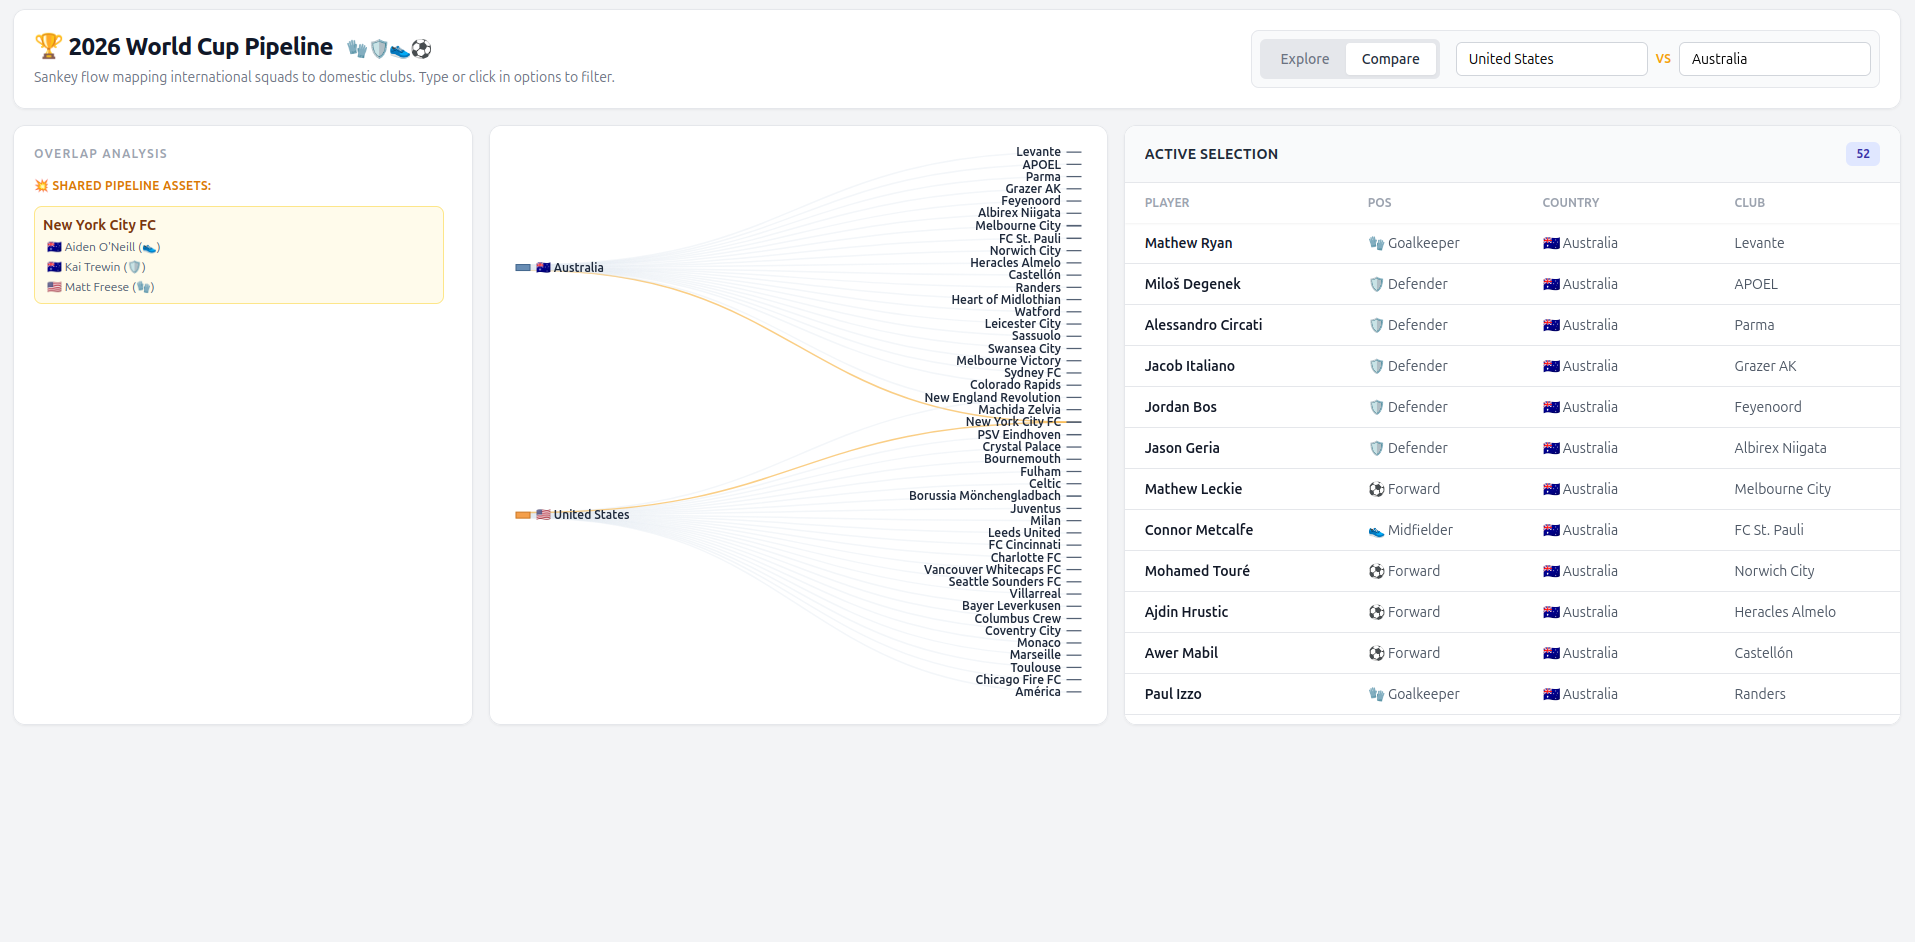
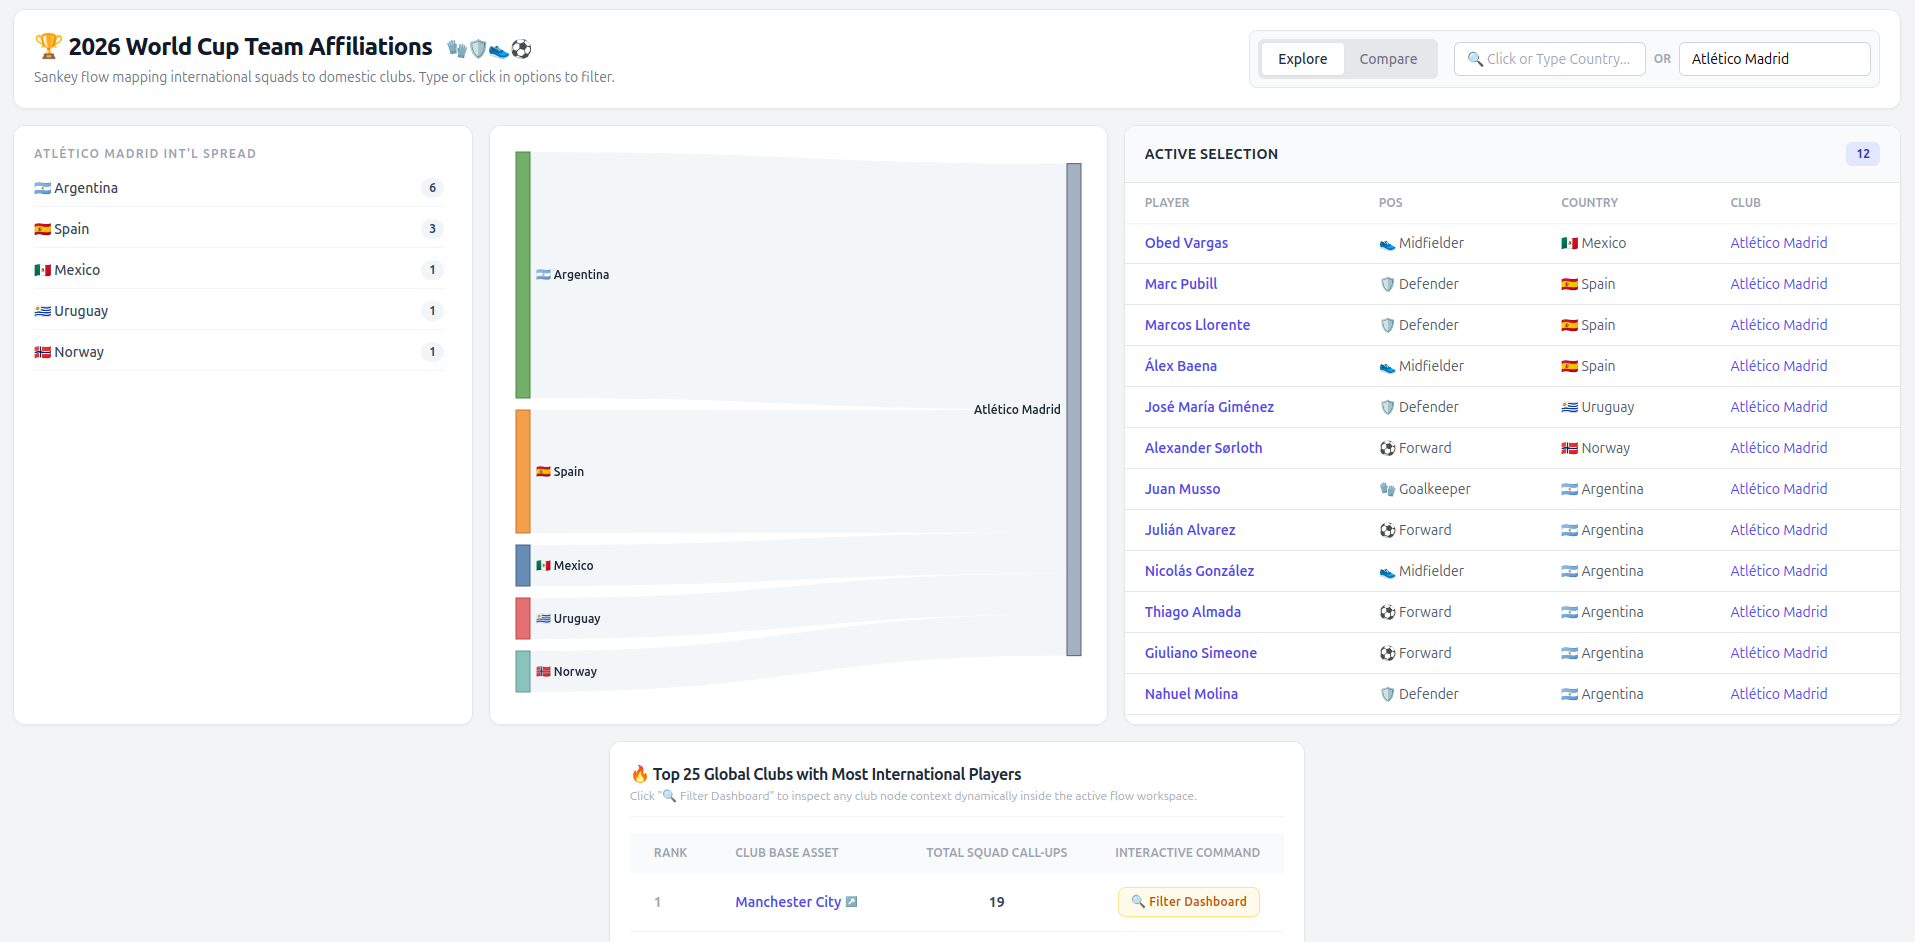
V final for now

diff --git a/world_cup_club_affiliations/index.html b/world_cup_club_affiliations/index.html
@@ -100,6 +100,27 @@
 
     </div>
 
+<div class="bg-white p-5 rounded-xl shadow-sm border border-gray-200 max-w-3xl mx-auto">
+        <div class="border-b border-gray-100 pb-3 mb-4">
+            <h3 class="text-base font-bold text-gray-800 tracking-tight">🔥 Top 25 Global Clubs with Most International Players</h3>
+            <p class="text-xs text-gray-400 mt-0.5">Click "🔍 Filter Dashboard" to inspect any club node context dynamically inside the active flow workspace.</p>
+        </div>
+        <div class="overflow-x-auto custom-scrollbar">
+            <table class="w-full text-sm text-left text-gray-500">
+                <thead class="text-xs text-gray-400 uppercase bg-gray-50">
+                    <tr>
+                        <th scope="col" class="px-6 py-3 w-16">Rank</th>
+                        <th scope="col" class="px-6 py-3">Club Base Asset</th>
+                        <th scope="col" class="px-6 py-3 text-center">Total Squad Call-ups</th>
+                        <th scope="col" class="px-6 py-3 text-right">Interactive Command</th>
+                    </tr>
+                </thead>
+                <tbody id="top-clubs-table-body" class="divide-y divide-gray-100">
+                </tbody>
+            </table>
+        </div>
+    </div>
+
     <script>
         let globalData = [];
         let currentMode = 'compare';
@@ -121,40 +142,105 @@
             "Uzbekistan": "🇺🇿", "Croatia": "🇭🇷", "England": "🏴", "Ghana": "🇬🇭", "Panama": "🇵🇦"
         };
 
-        //Data Source https://en.wikipedia.org/wiki/2026_FIFA_World_Cup_squads
+        // Core URL State Synchronization Utilities
+        function setUrlParam(key, value) {
+            const url = new URL(window.location.href);
+            if (value) {
+                url.searchParams.set(key, value);
+                if (key === 'club') url.searchParams.delete('country');
+                if (key === 'country') url.searchParams.delete('club');
+            } else {
+                url.searchParams.delete(key);
+            }
+            window.history.pushState({}, '', url);
+        }
+
+        function checkUrlParams() {
+            const urlParams = new URLSearchParams(window.location.search);
+            const mode = urlParams.get('mode');
+            const club = urlParams.get('club');
+            const country = urlParams.get('country');
+            const compareA = urlParams.get('compareA');
+            const compareB = urlParams.get('compareB');
+
+            if (mode === 'explore' || (!mode && (club || country))) {
+                setMode('explore', document.getElementById('btn-explore'), false);
+                if (club && globalClubs.has(club)) {
+                    d3.select("#input-club").property("value", club);
+                    d3.select("#input-country").property("value", "");
+                } else if (country && globalCountries.has(country)) {
+                    d3.select("#input-country").property("value", country);
+                    d3.select("#input-club").property("value", "");
+                }
+            } else if (mode === 'compare') {
+                setMode('compare', document.getElementById('btn-compare'), false);
+                if (compareA && globalCountries.has(compareA)) d3.select("#input-compare-a").property("value", compareA);
+                if (compareB && globalCountries.has(compareB)) d3.select("#input-compare-b").property("value", compareB);
+            }
+            updateVisualization();
+        }
+
+        function filterByClubLink(clubName) {
+            setMode('explore', document.getElementById('btn-explore'), false);
+            d3.select("#input-club").property("value", clubName);
+            d3.select("#input-country").property("value", "");
+            setUrlParam('club', clubName);
+            setUrlParam('mode', 'explore');
+            updateVisualization();
+            window.scrollTo({ top: 0, behavior: 'smooth' });
+        }
+
+        // Data Load & Init Lifecycle
         d3.csv("2026_world_cup_team_affiliations.csv").then(data => {
             globalData = data;
             populateDatalists();
+            renderTopClubsTable();
 
-            // Native autocomplete configuration mapping inputs to state triggers
             d3.select("#input-country").on("input", function() {
                 if(globalCountries.has(this.value) || this.value === "") {
                     d3.select("#input-club").property("value", "");
+                    setUrlParam('country', this.value);
+                    setUrlParam('mode', 'explore');
                     updateVisualization();
                 }
             });
             d3.select("#input-club").on("input", function() {
                 if(globalClubs.has(this.value) || this.value === "") {
                     d3.select("#input-country").property("value", "");
+                    setUrlParam('club', this.value);
+                    setUrlParam('mode', 'explore');
                     updateVisualization();
                 }
             });
-            d3.select("#input-compare-a").on("input", function() { if(globalCountries.has(this.value)) updateVisualization(); });
-            d3.select("#input-compare-b").on("input", function() { if(globalCountries.has(this.value)) updateVisualization(); });
+            d3.select("#input-compare-a").on("input", function() {
+                if(globalCountries.has(this.value)) { setUrlParam('compareA', this.value); updateVisualization(); }
+            });
+            d3.select("#input-compare-b").on("input", function() {
+                if(globalCountries.has(this.value)) { setUrlParam('compareB', this.value); updateVisualization(); }
+            });
 
-            setMode('compare', document.getElementById('btn-compare'));
+            const initialParams = new URLSearchParams(window.location.search);
+            if(initialParams.toString()) {
+                checkUrlParams();
+            } else {
+                setMode('compare', document.getElementById('btn-compare'), true);
+            }
         });
 
-        d3.select("#btn-explore").on("click", function() { setMode('explore', this); });
-        d3.select("#btn-compare").on("click", function() { setMode('compare', this); });
+        d3.select("#btn-explore").on("click", function() { setMode('explore', this, true); });
+        d3.select("#btn-compare").on("click", function() { setMode('compare', this, true); });
 
-        function setMode(mode, btnElement) {
+        function setMode(mode, btnElement, updateUrl = true) {
             currentMode = mode;
             d3.selectAll("#btn-explore, #btn-compare").classed("bg-white text-gray-800 shadow-sm", false).classed("text-gray-500 hover:text-gray-800", true);
             d3.select(btnElement).classed("bg-white text-gray-800 shadow-sm", true).classed("text-gray-500 hover:text-gray-800", false);
             d3.select("#explore-controls").style("display", mode === 'explore' ? 'flex' : 'none');
             d3.select("#compare-controls").style("display", mode === 'compare' ? 'flex' : 'none');
-            updateVisualization();
+
+            if(updateUrl) {
+                setUrlParam('mode', mode);
+                updateVisualization();
+            }
         }
 
         function populateDatalists() {
@@ -163,22 +249,59 @@
             globalCountries = new Set(countries);
             globalClubs = new Set(clubs);
 
-            // Populate native lists
             const cList = d3.select("#countries-list");
             countries.forEach(c => cList.append("option").attr("value", c));
 
             const cbList = d3.select("#clubs-list");
             clubs.forEach(c => cbList.append("option").attr("value", c));
 
-            // Set USA and Australia as default comparison mapping configurations
             const defaultA = countries.includes("United States") ? "United States" : countries[0];
             const defaultB = countries.includes("Australia") ? "Australia" : (countries[1] || countries[0]);
             d3.select("#input-compare-a").property("value", defaultA);
             d3.select("#input-compare-b").property("value", defaultB);
 
-            // Pick Real Madrid if present
             const plannerClub = clubs.includes("Real Madrid") ? "Real Madrid" : (clubs[0] || "");
             d3.select("#input-club").property("value", plannerClub);
+        }
+
+        function renderTopClubsTable() {
+            const rollup = d3.rollups(globalData, v => v.length, d => d.club_team)
+                            .sort((a, b) => b[1] - a[1])
+                            .slice(0, 25);
+
+            const tbody = d3.select("#top-clubs-table-body").html("");
+
+            rollup.forEach(([clubName, count], idx) => {
+                const matchedRow = globalData.find(d => d.club_team === clubName);
+                const clubUrl = matchedRow ? matchedRow.club_url : '';
+
+                const tr = tbody.append("tr").attr("class", "hover:bg-slate-50 transition-colors");
+
+                tr.append("td").attr("class", "px-6 py-3.5 font-bold text-gray-400 text-sm").text(idx + 1);
+
+                const nameTd = tr.append("td").attr("class", "px-6 py-3.5 text-sm font-semibold text-gray-900");
+                if(clubUrl) {
+                    nameTd.append("a")
+                        .attr("href", `https://en.wikipedia.org${clubUrl}`)
+                        .attr("target", "_blank")
+                        .attr("class", "text-indigo-600 hover:underline inline-flex items-center gap-1")
+                        .html(`${clubName} <span class='text-[10px] text-gray-400 font-normal'>↗</span>`);
+                } else {
+                    nameTd.text(clubName);
+                }
+
+                tr.append("td").attr("class", "px-6 py-3.5 text-center text-sm font-bold text-gray-700").text(count);
+
+                const actionTd = tr.append("td").attr("class", "px-6 py-3.5 text-right text-sm");
+                actionTd.append("a")
+                    .attr("href", `?mode=explore&club=${encodeURIComponent(clubName)}`)
+                    .attr("class", "bg-amber-50 text-amber-700 hover:bg-amber-100 px-3 py-1.5 rounded-lg text-xs font-semibold tracking-wide transition-all inline-block shadow-sm border border-amber-200")
+                    .on("click", function(event) {
+                        event.preventDefault();
+                        filterByClubLink(clubName);
+                    })
+                    .text("🔍 Filter Dashboard");
+            });
         }
 
         function updateVisualization() {
@@ -244,8 +367,11 @@
             });
 
             const svg = d3.select("#chart").append("svg").attr("width", chartWidth).attr("height", chartHeight);
-
             const sankey = d3.sankey().nodeWidth(14).nodePadding(12).extent([[10, 10], [chartWidth - 10, chartHeight - 10]]);
+
+            if (currentMode === 'explore') {
+                sankey.nodeSort((a, b) => b.value - a.value);
+            }
 
             const graph = sankey({
                 nodes: nodes.map(d => Object.assign({}, d)),
@@ -320,7 +446,6 @@
             players.forEach(p => {
                 const row = tbody.append("tr").attr("class", "bg-white border-b hover:bg-indigo-50 transition-colors");
 
-                // Hyperlink added on Player Name
                 const pCell = row.append("td").attr("class", "px-5 py-2.5 font-semibold text-gray-900");
                 if (p.player_url) {
                     pCell.append("a")
@@ -335,7 +460,6 @@
                 row.append("td").attr("class", "px-5 py-2.5 whitespace-nowrap").text(`${posEmojis[p.position] || '🏃'} ${p.position}`);
                 row.append("td").attr("class", "px-5 py-2.5 whitespace-nowrap").text(`${countryFlags[p.international_team] || '🏳'} ${p.international_team}`);
 
-                // Hyperlink added on Club Name
                 const cCell = row.append("td").attr("class", "px-5 py-2.5 truncate max-w-[140px]");
                 if (p.club_url) {
                     cCell.append("a")
@@ -358,7 +482,6 @@
                 const prefix = keyField === 'international_team' ? (countryFlags[name] || '🏳') + ' ' : '';
                 let displayName = `${prefix}${name}`;
 
-                // Add Club Link here during Single Country Explore mode
                 if (keyField === 'club_team') {
                     const sample = data.find(d => d.club_team === name);
                     if (sample && sample.club_url) {
@@ -386,9 +509,8 @@
                     const clubUrl = samplePlayer ? samplePlayer.club_url : '';
 
                     const clubHeader = listSelection.append("li").attr("class", "mt-3 bg-amber-50 border border-amber-200 p-2 rounded-lg");
-
-                    // Hyperlink added on Club heading in Overlap layout
                     const clubDiv = clubHeader.append("div").attr("class", "font-bold text-amber-900 text-sm");
+
                     if (clubUrl) {
                         clubDiv.append("a")
                             .attr("href", `https://en.wikipedia.org${clubUrl}`)
@@ -404,7 +526,6 @@
                         const playerLi = playerSublist.append("li");
                         playerLi.append("span").text(`${countryFlags[p.international_team] || '🏳'} `);
 
-                        // Hyperlink added on Player items in Overlap layout
                         if (p.player_url) {
                             playerLi.append("a")
                                 .attr("href", `https://en.wikipedia.org${p.player_url}`)
